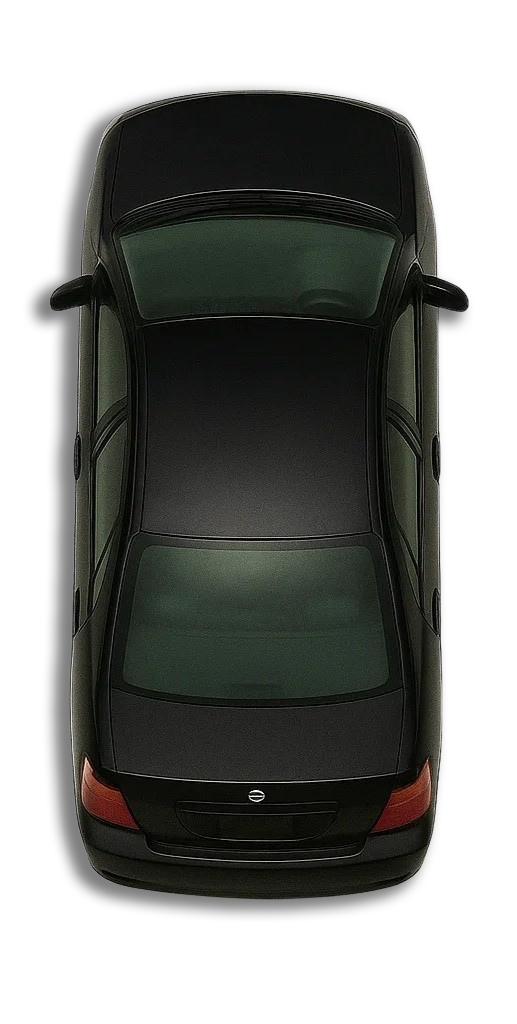
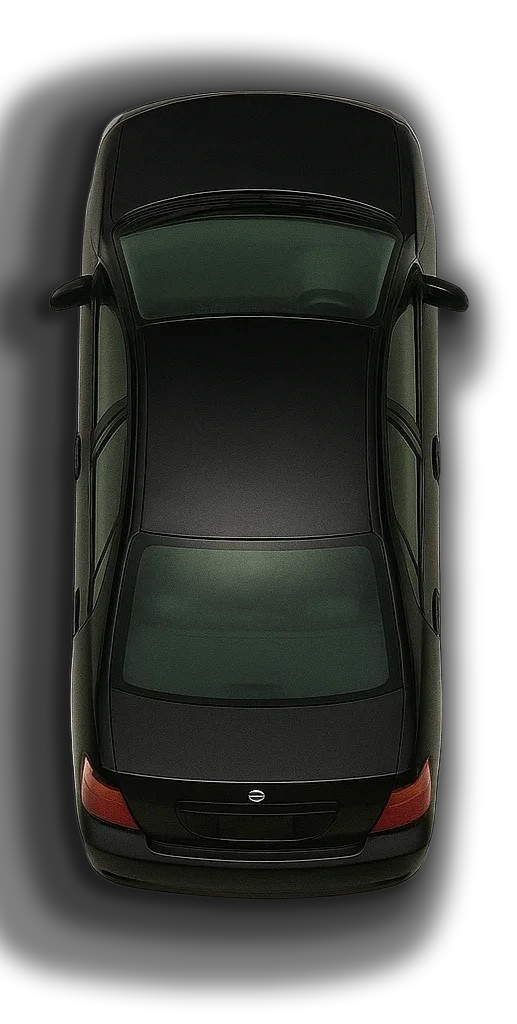
Test

Changed region(s): [[0.0, 0.0312, 0.9594, 1.0]]

diff --git a/Simulation/player.py b/Simulation/player.py
@@ -4,11 +4,19 @@ from config import *
 
 class Player:
     def __init__(self, x, y):
-        self.original_image = pygame.image.load(PLAYER_TILE_ASSET).convert_alpha()
-        # Smooth scaling for anti-aliasing
+        car_img = pygame.image.load(PLAYER_TILE_ASSET).convert_alpha()
         new_width = int(LANE_WIDTH * VEHICLE_SCALE)
-        new_height = int((new_width / self.original_image.get_width()) * self.original_image.get_height())
-        self.original_image = pygame.transform.smoothscale(self.original_image, (new_width, new_height))
+        new_height = int((new_width / car_img.get_width()) * car_img.get_height())
+        car_img = pygame.transform.smoothscale(car_img, (new_width, new_height))
+        # Create shadow
+        shadow_offset = 10
+        shadow_alpha = 100
+        shadow_img = pygame.Surface((new_width + shadow_offset*2, new_height + shadow_offset*2), pygame.SRCALPHA)
+        shadow = pygame.Surface((new_width, new_height), pygame.SRCALPHA)
+        pygame.draw.ellipse(shadow, (0,0,0,shadow_alpha), shadow.get_rect())
+        shadow_img.blit(shadow, (shadow_offset, new_height + shadow_offset//2))
+        shadow_img.blit(car_img, (shadow_offset, shadow_offset))
+        self.original_image = shadow_img
         self.image = self.original_image
         self.rect = self.image.get_rect()
         self.x = (LANE_COUNT // 2 + 0.5) * LANE_WIDTH
